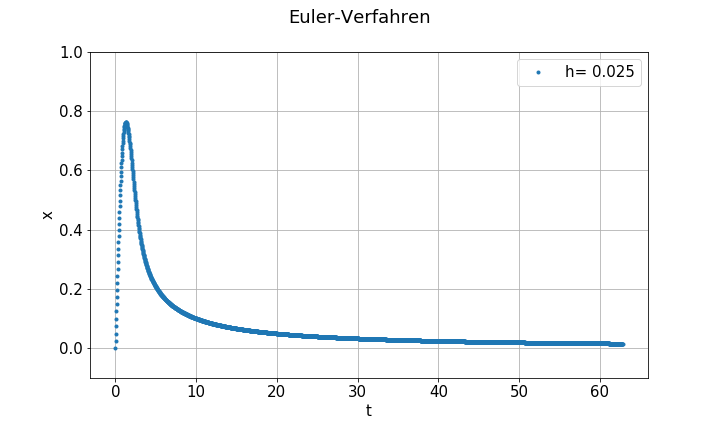
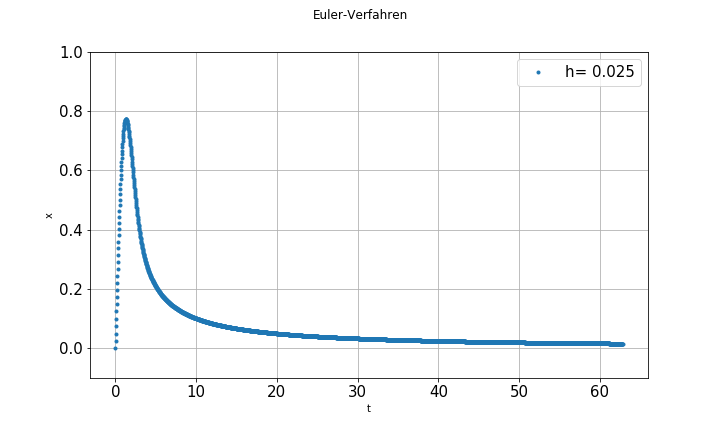
vermeintlicher fix...

diff --git a/Zettel1/A2.py b/Zettel1/A2.py
@@ -14,9 +14,6 @@ from scipy import optimize
 import glob
 import os
 
-import json
-import periodic
-
 
 # Konstanten fuer einheitliche Darstellung
 
@@ -28,17 +25,18 @@ matplotlib.rcParams.update({'font.size': fig_labelsize})
 colors = dict(mcolors.BASE_COLORS, **mcolors.CSS4_COLORS)
 
 def euler(aa, bb, hh, x_0, ff, tt, meshpoints):
-    
+
     xx = np.zeros(meshpoints)
     xx[0] = x_0
     for i in range(1, meshpoints):
-        xx[i] = xx[i-1] + hh * ff(tt[i], xx[i-1])
+        xx[i] = xx[i-1] + hh * ff(tt[i-1], xx[i-1])
     return xx
 def heun(aa, bb, hh, x_0, ff, tt, meshpoints):
-    
+
     xx = np.zeros(meshpoints)
     xx[0] = x_0
     for i in range(1, meshpoints):
+        xx[i] = xx[i-1] + hh * ff(tt[i-1], xx[i-1])
         xx[i] = xx[i-1] + hh/2 * (ff(tt[i-1], xx[i-1]) + ff(tt[i], xx[i]))
     return xx
 

diff --git a/Zettel1/A1.py b/Zettel1/A1.py
@@ -44,7 +44,7 @@ def euler(aa, bb, hh, x_0, ff, tt, meshpoints):
     xx = np.zeros(meshpoints)
     xx[0] = x_0
     for i in range(1, meshpoints):
-        xx[i] = xx[i-1] + hh * ff(tt[i], xx[i-1])
+        xx[i] = xx[i-1] + hh * ff(tt[i-1], xx[i-1])
     return xx
 
 aa = 0.0
